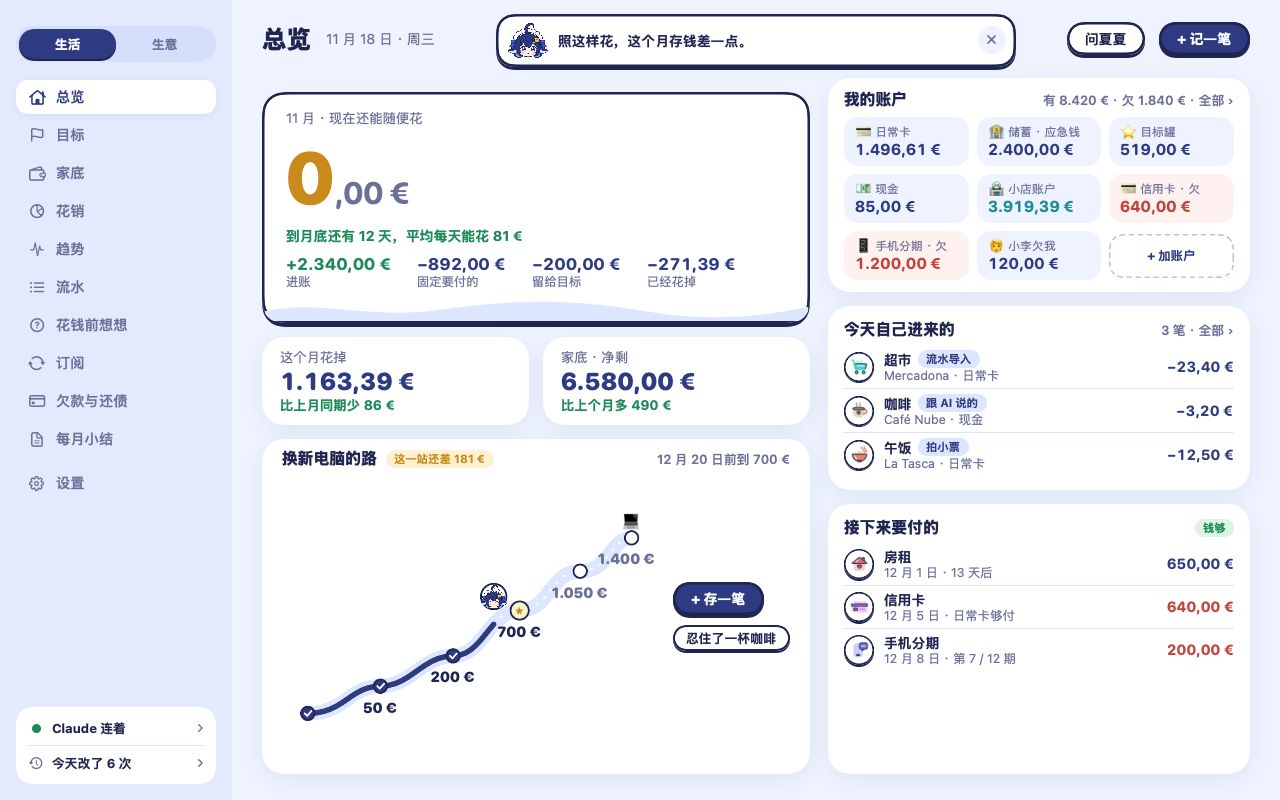
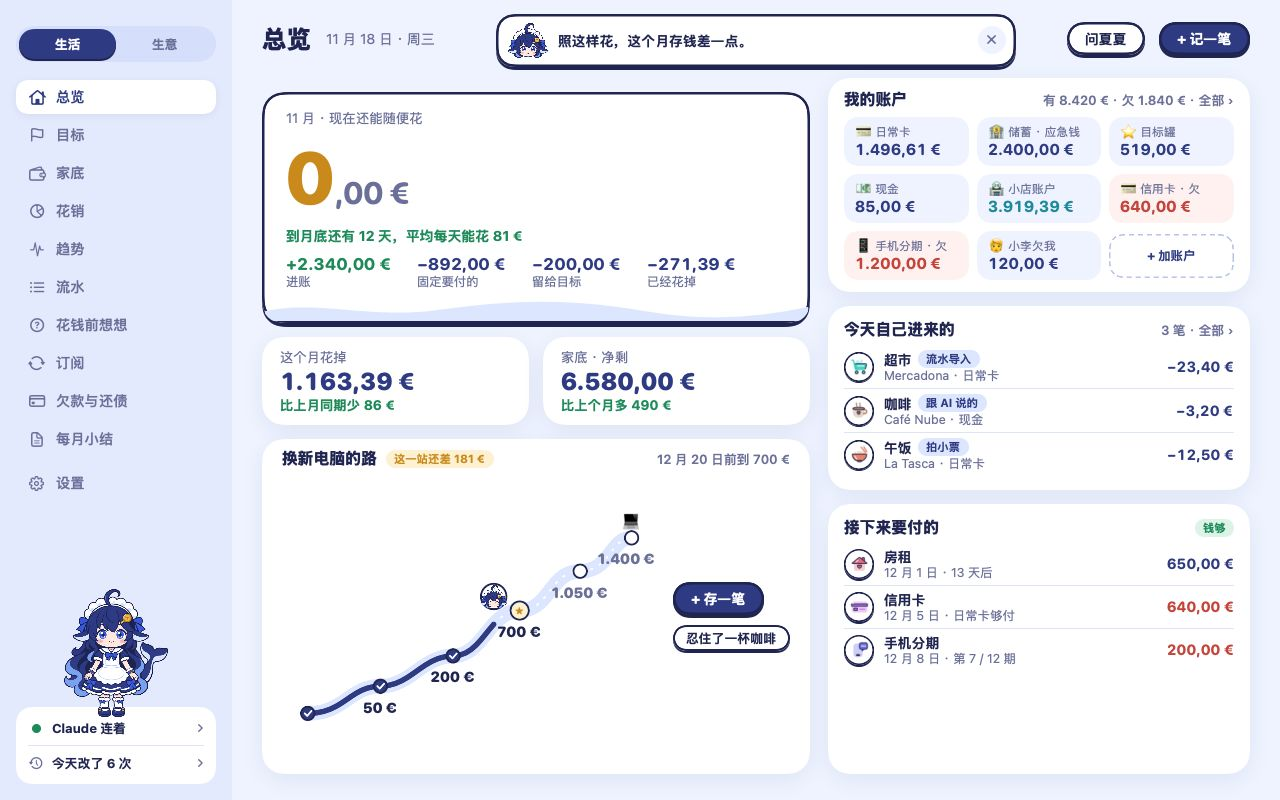
界面 v3：夏夏站在左边栏底部那张卡上面（ming 定的），点她就是问夏夏

Changed region(s): [[0.0312, 0.7188, 0.125, 0.9062]]

diff --git a/Sources/LedgerUI/V3/V3Root.swift b/Sources/LedgerUI/V3/V3Root.swift
@@ -340,7 +340,11 @@ private struct V3Sidebar: View {
                 }
                 .buttonStyle(V3SinkStyle(depth: 2)).help("账本不动，只换 app 本身")
             }
-            statusCard(linked: linked, ai: ai, changes: changes)
+            // 夏夏站在这张卡上面（ming 2026-11-28）。点她就是「问夏夏」。设置里关了「显示夏夏」就不放。
+            VStack(spacing: -10) {
+                if state.prefs.showXia { V3SidebarXia().zIndex(1) }
+                statusCard(linked: linked, ai: ai, changes: changes)
+            }
         }
     }
 
@@ -373,6 +377,32 @@ private struct V3Sidebar: View {
     }
 
     private func strip(_ m: Money) -> String { m.v3Short.replacingOccurrences(of: "\u{00A0}€", with: "") }
+}
+
+/// 左边栏底部站在卡片上的夏夏。图只在这一处引用（`V3SidebarXia.asset`），以后角色定了新样子，换这一个名字就行。
+private struct V3SidebarXia: View {
+    static let asset = "xia-full"
+    @Environment(V3State.self) private var state
+    @State private var hover = false
+
+    var body: some View {
+        Button { state.openChat() } label: {
+            V3.image(Self.asset).resizable().scaledToFit().frame(width: 104)
+                .overlay(alignment: .topTrailing) {
+                    // 有一句话没看：和「问夏夏」按钮上的小红点同步
+                    if state.sayUnreadID != nil {
+                        Circle().fill(V3.red).overlay(Circle().strokeBorder(.white, lineWidth: 2)).frame(width: 13, height: 13).offset(x: -8, y: 14)
+                    }
+                }
+                .offset(y: hover ? -4 : 0)
+                .animation(.spring(duration: 0.25, bounce: 0.5), value: hover)
+                .contentShape(Rectangle())
+        }
+        .buttonStyle(.plain)
+        .onHover { hover = $0 }
+        .help("问\(state.prefs.xiaName)")
+        .accessibilityLabel("问\(state.prefs.xiaName)")
+    }
 }
 
 /// 左边栏的一行：选中是白底，鼠标移上去是半透明白底。

diff --git a/Tests/LedgerUITests/V3RenderTests.swift b/Tests/LedgerUITests/V3RenderTests.swift
@@ -45,6 +45,9 @@ final class V3RenderTests: XCTestCase {
         done.nextStep(); done.toast = nil
         XCTAssertNil(done.moment)
         try write(V3Shell().environment(done), "after-onboarding", to: dir)
+        done.side = .biz; done.page = .bizHome
+        try write(V3Shell().environment(done), "sidebar-xia-biz", to: dir)
+        done.side = .life; done.page = .overview
         done.updateVersion = "0.3.1"
         try write(V3Shell().environment(done), "sidebar-update", to: dir)
         let nogoal = V3State()
